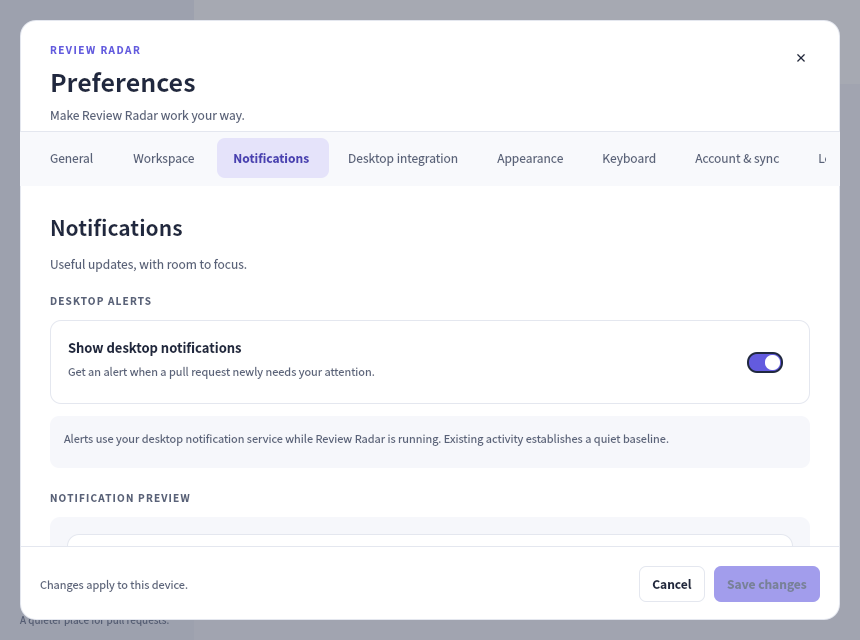
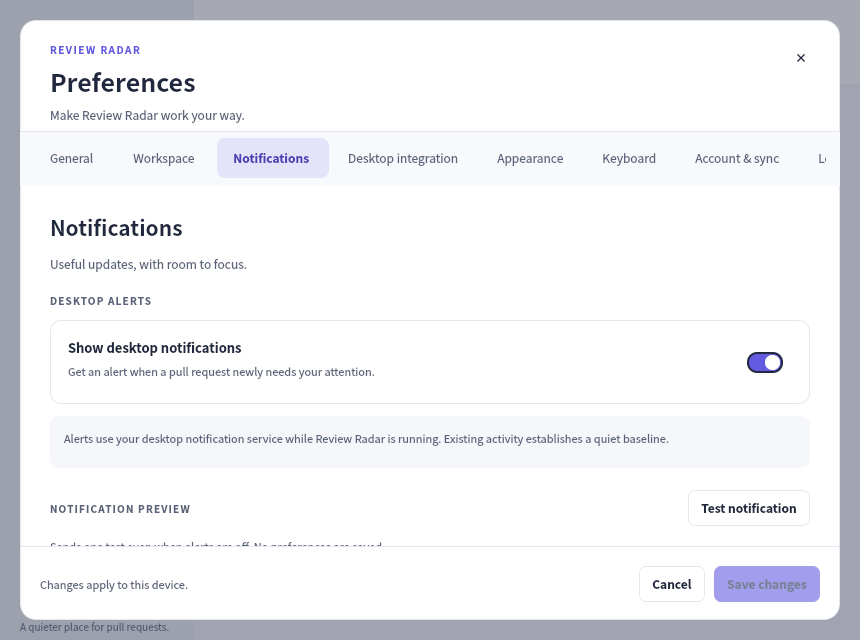
Improve Linux notification actions

Changed region(s): [[0.0605, 0.75, 0.2419, 0.8125], [0.0302, 0.9688, 0.2116, 1.0], [0.8163, 0.7812, 0.9372, 0.8125]]

diff --git a/apps/linux-qt/qml/Main.qml b/apps/linux-qt/qml/Main.qml
@@ -262,7 +262,27 @@ ApplicationWindow {
                 Label { Layout.fillWidth: true; text: "Read and snoozed items stay quiet until something meaningful changes."; color: Style.muted; font.pixelSize: 11; wrapMode: Text.Wrap; lineHeight: 1.3 }
                 Label { visible: queue.suppressedCount > 0; text: queue.suppressedCount + " hidden in this view"; color: Style.secondary; font.pixelSize: 11 }
                 Item { Layout.fillHeight: true }
-                RadarButton { objectName: "open-preferences"; text: "⚙  Preferences"; Accessible.name: "Preferences"; quiet: true; onClicked: preferencesDialog.open() }
+                Button {
+                    id: preferencesButton
+                    objectName: "open-preferences"
+                    Layout.fillWidth: true; implicitHeight: 43
+                    hoverEnabled: true
+                    text: "Preferences"
+                    Accessible.name: text
+                    Accessible.role: Accessible.Button
+                    onClicked: preferencesDialog.open()
+                    background: Rectangle {
+                        radius: 8
+                        color: preferencesButton.hovered ? "#e9ecf3" : "transparent"
+                        border.color: preferencesButton.activeFocus ? Style.accent : "transparent"
+                        border.width: preferencesButton.activeFocus ? 2 : 1
+                    }
+                    contentItem: RowLayout {
+                        spacing: 12
+                        Label { text: "⚙"; color: Style.muted; font.pixelSize: 18; Layout.leftMargin: 8; Accessible.ignored: true }
+                        Label { Layout.fillWidth: true; text: preferencesButton.text; color: Style.secondary; font.pixelSize: 12 }
+                    }
+                }
                 Label { text: "●  github.com"; color: Style.secondary; font.pixelSize: 12; font.weight: Font.DemiBold }
                 Label { Layout.fillWidth: true; text: "A quieter place for pull requests."; color: Style.muted; font.pixelSize: 10; wrapMode: Text.Wrap; Layout.bottomMargin: 4 }
             }

diff --git a/apps/linux-qt/linuxosintegration.cpp b/apps/linux-qt/linuxosintegration.cpp
@@ -25,17 +25,26 @@ bool LinuxOsIntegration::showNotification(const NotificationRequest &request) {
                                  "org.freedesktop.Notifications", QDBusConnection::sessionBus());
     if (!notifications.isValid()) return false;
 
-    const QStringList actions = request.activationUrl.isEmpty()
-        ? QStringList{} : QStringList{"open", "Open pull request"};
+    QStringList actions;
+    for (const auto &action : request.actions) {
+        if (!action.id.isEmpty() && !action.label.isEmpty() && !action.activationUrl.isEmpty()) {
+            actions.append(action.id);
+            actions.append(action.label);
+        }
+    }
     QVariantMap hints{{"desktop-entry", "review-radar-linux"}};
     QDBusReply<uint> reply = notifications.call(
-        "Notify", "Review Radar", notificationIds_.value(request.id), QString(), request.title,
+        "Notify", "Review Radar", notificationIds_.value(request.id), "review-radar-linux", request.title,
         request.body, actions, hints, -1);
     if (!reply.isValid()) return false;
 
     notificationIds_.insert(request.id, reply.value());
-    if (request.activationUrl.isEmpty()) notificationUrls_.remove(reply.value());
-    else notificationUrls_.insert(reply.value(), request.activationUrl);
+    QHash<QString, QUrl> actionUrls;
+    for (const auto &action : request.actions) {
+        if (!action.id.isEmpty() && !action.activationUrl.isEmpty())
+            actionUrls.insert(action.id, action.activationUrl);
+    }
+    notificationActions_.insert(reply.value(), actionUrls);
     return true;
 }
 
@@ -63,8 +72,9 @@ QString LinuxOsIntegration::applicationDataFile(const QString &name) const {
 }
 
 void LinuxOsIntegration::notificationActionInvoked(uint notificationId, const QString &action) {
-    if (action != "open" || !notificationUrls_.contains(notificationId)) return;
-    emit notificationActivated(notificationUrls_.take(notificationId));
+    const auto notification = notificationActions_.value(notificationId);
+    if (!notification.contains(action)) return;
+    emit notificationActivated(notification.value(action));
 }
 
 } // namespace ReviewRadar

diff --git a/apps/linux-qt/queuecontroller.cpp b/apps/linux-qt/queuecontroller.cpp
@@ -396,8 +396,19 @@ void QueueController::sendNotifications(const QJsonArray &cards, const QJsonArra
                               .arg(card.value("repository").toString())
                               .arg(card.value("number").toInt())
                               .arg(reason);
+        const auto pullRequestUrl = QUrl(card.value("url").toString());
+        const auto nextAction = reasons.isEmpty() ? QJsonObject{}
+                                                  : reasons.first().toObject().value("nextAction").toObject();
+        const auto nextActionUrl = QUrl(nextAction.value("url").toString());
+        QList<ReviewRadar::NotificationAction> actions;
+        if (!nextActionUrl.isEmpty()) {
+            actions.append({"next-action", nextAction.value("label").toString("Open next action"),
+                            nextActionUrl});
+        }
+        if (!pullRequestUrl.isEmpty() && pullRequestUrl != nextActionUrl)
+            actions.append({"open-pull-request", "Open pull request", pullRequestUrl});
         osIntegration_->showNotification({card.value("currentFingerprint").toString(), title, body,
-                                           QUrl(card.value("url").toString())});
+                                           pullRequestUrl, actions});
     }
 }
 void QueueController::setStatus(const QString &status) { if (status_ != status) { status_ = status; emit statusChanged(); } }
@@ -415,5 +426,5 @@ bool QueueController::savePreferences(bool notificationsEnabled) {
 bool QueueController::testNotification() {
     return osIntegration_->showNotification({
         "preferences-test", "Review Radar test notification",
-        "Desktop notifications are working. Your preferences have not changed.", {}});
+        "Desktop notifications are working. Your preferences have not changed.", {}, {}});
 }

diff --git a/apps/linux-qt/tests/workspace.cpp b/apps/linux-qt/tests/workspace.cpp
@@ -101,6 +101,7 @@ void WorkspaceTest::osIntegrationBoundary() {
     QVERIFY(restarted.testNotification());
     QCOMPARE(osIntegration.notification.id, QString("preferences-test"));
     QVERIFY(osIntegration.notification.activationUrl.isEmpty());
+    QVERIFY(osIntegration.notification.actions.isEmpty());
     QVERIFY(!restarted.notificationsEnabled());
     osIntegration.notificationSucceeds = false;
     QVERIFY(!restarted.testNotification());
@@ -309,6 +310,10 @@ void WorkspaceTest::workspace() {
         QVERIFY(QMetaObject::invokeMethod(save, "clicked"));
         QTRY_VERIFY(!preferences->property("visible").toBool());
         QVERIFY(!queue.notificationsEnabled);
+        const auto notificationAction = ReviewRadar::NotificationAction{
+            "next-action", "Start review", QUrl("https://github.com/example/api/pull/142/files")};
+        QCOMPARE(notificationAction.label, QString("Start review"));
+        QVERIFY(!notificationAction.activationUrl.isEmpty());
         QVERIFY(QMetaObject::invokeMethod(preferences, "open"));
         QTRY_VERIFY(preferences->property("opened").toBool());
         QVERIFY(!preferences->property("draftNotifications").toBool());

diff --git a/apps/linux-qt/osintegration.h b/apps/linux-qt/osintegration.h
@@ -1,16 +1,24 @@
 #pragma once
 
 #include <QObject>
+#include <QList>
 #include <QString>
 #include <QUrl>
 
 namespace ReviewRadar {
+
+struct NotificationAction {
+    QString id;
+    QString label;
+    QUrl activationUrl;
+};
 
 struct NotificationRequest {
     QString id;
     QString title;
     QString body;
     QUrl activationUrl;
+    QList<NotificationAction> actions;
 };
 
 // Boundary for operating-system effects used by a native shell. The controller

diff --git a/apps/linux-qt/linuxosintegration.h b/apps/linux-qt/linuxosintegration.h
@@ -22,7 +22,7 @@ private slots:
 
 private:
     QHash<QString, uint> notificationIds_;
-    QHash<uint, QUrl> notificationUrls_;
+    QHash<uint, QHash<QString, QUrl>> notificationActions_;
 };
 
 } // namespace ReviewRadar

diff --git a/docs/native-client-contract.md b/docs/native-client-contract.md
@@ -264,6 +264,13 @@ activation URL or browser action. Report adapter acceptance as sent, not proof o
 on-screen display (desktop quiet modes may suppress it); report delivery failure
 inline. This makes the platform integration independently diagnosable.
 
+Linux notifications identify the installed `review-radar-linux` application icon
+and expose explicit actions from the shared projected card: its relevant next
+action (when it has a URL) and a canonical Open pull request action when distinct.
+The OS adapter maps action IDs back to URLs; the queue supplies no DBus details.
+Tests and notifications have no PR action. Action labels remain text, rather than
+icon-only affordances, and a notification service may choose its own rendering.
+
 The native preferences shell follows the high-fidelity reference: a wide modal
 with a section rail, white bordered setting groups, a notification example, and
 persistent header/footer. At narrower sizes the rail becomes horizontal and the
